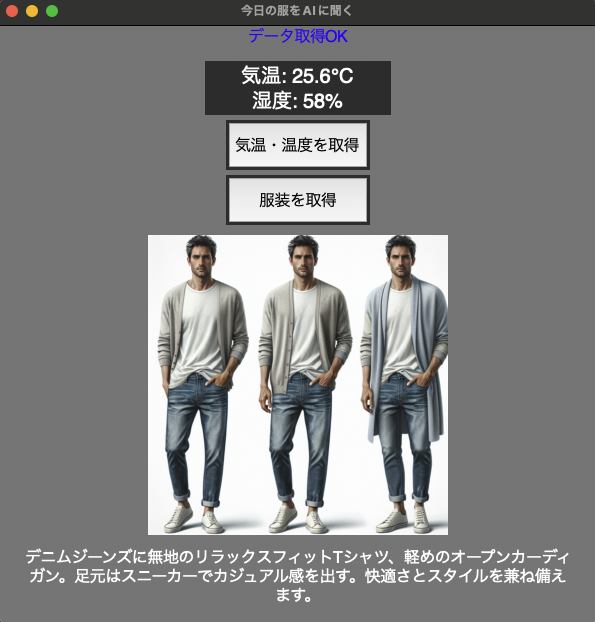
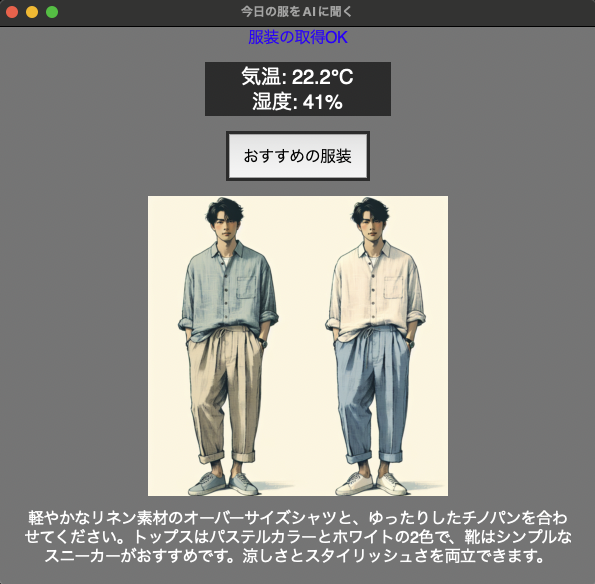
気温と湿度を自動で取得、アプリ画像の変更

diff --git a/app.py b/app.py
@@ -18,7 +18,7 @@ DEVICE_ID = os.getenv('DEVICE_ID')
 OPENAI_API_KEY = os.getenv('OPENAI_API_KEY')
 WINDOW_WIDTH = int(os.getenv('WINDOW_WIDTH'))
 WINDOW_HEIGHT = int(os.getenv('WINDOW_HEIGHT'))
-UPDATE_INTERVAL = int(os.getenv('UPDATE_INTERVAL')) or 3600
+UPDATE_INTERVAL = int(os.getenv('UPDATE_INTERVAL')) or 600
 AGE = int(os.getenv('AGE'))
 GENDER = os.getenv('GENDER')
 
@@ -82,7 +82,8 @@ def get_clothing_advice(preference, style, physical):
 
     prompt = f"""
     私は{AGE}歳、{GENDER}です。{preference}が好きで、{style}スタイルを好みます。体質は{physical}です。
-    現在の気温{temperature}°C、湿度{humidity}%。この条件に合う服装のアドバイスを100文字以内でお願いします
+    現在の気温{temperature}°C、湿度{humidity}%。靴は単色、上下の服は2色以上。
+    この条件に合う服装のアドバイスを100文字以内でお願いします
     """
 
     response_advice = client.chat.completions.create(
@@ -99,8 +100,8 @@ def get_clothing_advice(preference, style, physical):
 
     prompt = f"""
     {advice}
-    ここより先に記載した文章に適合する服装の画像を生成してください。
-    年齢は{AGE}歳、性別は{GENDER}、1人の人物が服を着た実写風でカラーでお願いします。
+    アドバイスに沿った服装の画像を実写風カラーで生成してください。
+    1人の日本人{GENDER}、年齢は{AGE}歳です。
     テキスト情報は画像に出力しないでください
     """
 
@@ -125,7 +126,7 @@ def update_clothing():
         root.update()
         preference = "カジュアル"
         style = "ゆったりめ"
-        physical = "普通"
+        physical = "やや暑がり"
         image, advice = get_clothing_advice(preference, style, physical)
         if image is not None and advice is not None:
             image = image.resize((300, 300), Image.BILINEAR)    #中程度品質の圧縮、速度も速い
@@ -167,23 +168,24 @@ root.configure(bg="gray")
 message_label = tk.Label(root, text=".", font=("Helvetica", 16), bg="gray")
 message_label.place(x=WINDOW_WIDTH // 2,y=10, anchor="center")
 
-temperature_label = tk.Label(root, text="気温: 取得中...", font=("Helvetica", 20), fg="white", width=15)
+temperature_label = tk.Label(root, text="気温: 更新中...", font=("Helvetica", 20), fg="white", width=15)
 temperature_label.place(x=WINDOW_WIDTH // 2,y=50, anchor="center")
 
-humidity_label = tk.Label(root, text="湿度: 取得中...", font=("Helvetica", 20), fg="white", width=15)
+humidity_label = tk.Label(root, text="湿度: 更新中...", font=("Helvetica", 20), fg="white", width=15)
 humidity_label.place(x=WINDOW_WIDTH // 2,y=75, anchor="center")
 
-update_button = tk.Button(root, text="気温・温度を取得", command=update_temperature_humidity, font=("Helvetica", 16), width=12, height=2)
-update_button.place(x=WINDOW_WIDTH // 2,y=120, anchor="center")
+# 10分ごとに気温と湿度を取得するので不要
+# update_button = tk.Button(root, text="気温・温度を更新", command=update_temperature_humidity, font=("Helvetica", 16), width=12, height=2)
+# update_button.place(x=WINDOW_WIDTH // 2,y=120, anchor="center")
 
-update_clothing_button = tk.Button(root, text="服装を取得", command=update_clothing, font=("Helvetica", 16), width=12, height=2)
-update_clothing_button.place(x=WINDOW_WIDTH // 2,y=175, anchor="center")
+update_clothing_button = tk.Button(root, text="おすすめの服装", command=update_clothing, font=("Helvetica", 16), width=12, height=2)
+update_clothing_button.place(x=WINDOW_WIDTH // 2,y=130, anchor="center")
 
 image_label = tk.Label(root, bg="gray")
-image_label.place(x=WINDOW_WIDTH // 2, y=360, anchor="center")
+image_label.place(x=WINDOW_WIDTH // 2, y=320, anchor="center")
 
 advice_label = tk.Label(root, text="", font=("Helvetica", 16), fg="white", bg="gray", width=60, wraplength=550)
-advice_label.place(x=WINDOW_WIDTH // 2,y=550, anchor="center")
+advice_label.place(x=WINDOW_WIDTH // 2,y=510, anchor="center")
 
 # 初期化時に気温・温度を表示
 update_temperature_humidity()
